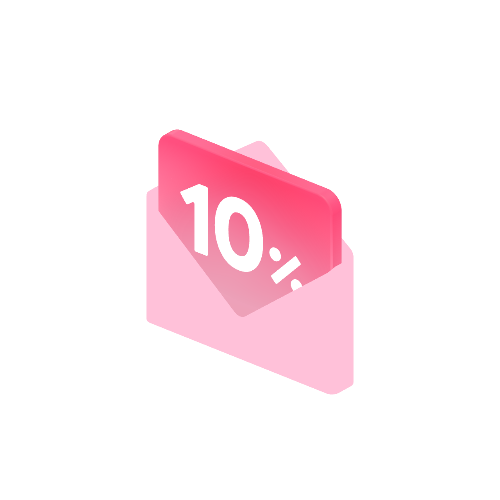
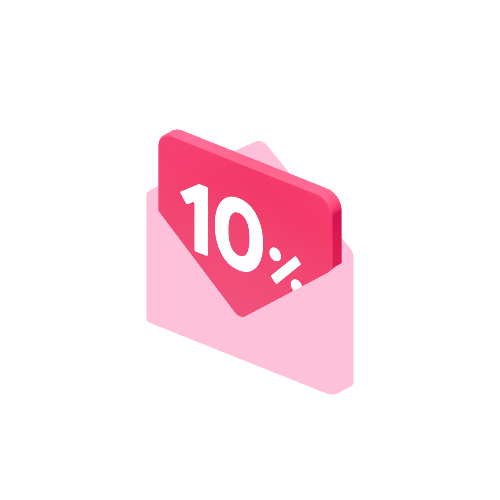
Align today's assets to the Moving Box frosted standard
Moving Box (`box`) is the canonical frosted tone — its frostedBlue
averages ~#4096F3, decided via contrast/color tests. Won Coin and the
new 10% Coupon + Envelope rendered far paler because their thin/flat
geometry (disc, paper sheet) exposes the pale gradient band and bleeds
the bright background through the transmission, lifting the body toward
pale cyan.

Per the tone-priority call, match box's color and accept slightly less
translucency on these thin assets (woncoin, woncoinarrow, couponEnvelope):

- gradientYShift -3 — extends the gradient bbox below the body so the
  visible V range compresses into the saturated end. Not a material
  value (box itself uses -0.12); each asset tunes this to its silhouette.
- envMapIntensity 0 — kill the env reflection that lifts the flat face
  toward white/cyan.
- transmission 0.5 (vs the 0.85 FROSTED_PRESET) — cut the white-
  background bleed-through so the body reads saturated.

No hardcoded gradient, so every color variant stays correct. Measured
frostedBlue avg moved woncoin #56B4F6 → #329EE7 (vs box #4096F3); the
coupon paper now reads dense while its envelope keeps the intended light
harmony accent. Thumbnails re-baked (woncoin/woncoinarrow are new — the
won coin assets previously had no pre-baked PNG).

Changed region(s): [[0.3, 0.3, 0.69, 0.63]]

diff --git a/3Dassetlibrary.html b/3Dassetlibrary.html
@@ -2029,20 +2029,29 @@ const ASSETS = {
     // leaves it looking small next to cube assets. Tighten so the disc
     // fills the cell like Moving Box.
     frameScale: 1.7,
-    // Shift the gradient bbox downward so the coin face sits inside
-    // the saturated half of the gradient instead of the pale top —
-    // flat assets only expose a thin slice of the V range, so without
-    // the shift the coin reads washed-out (same trap as lightning).
-    gradientYShift: -0.85,
-    // Pull envMap + clearcoat down so the gradient color (not surface
-    // reflections) dominates — the coin's flat top face would otherwise
-    // catch the overhead key/front directionals head-on and lift the
-    // body toward white, washing out whichever frosted variant is
-    // active. NB: no gradient override here — that would lock the
-    // texture to a single palette and break variant switching.
+    // ── Match the Moving Box (box) frosted standard ──────────────
+    // `box` is the canonical frosted tone (decided via contrast/color
+    // tests): frostedBlue averages ~#4096F3. A thin disc can't hit that
+    // tone under the *identical* FROSTED_PRESET — its flat face spans
+    // the whole gradient (so the pale top band shows) and its thinness
+    // lets the bright background bleed through the transmission, both
+    // lifting the body toward pale cyan. Per the tone-priority call we
+    // match box's color and accept slightly less translucency:
+    //  · gradientYShift -3 — extends the gradient bbox below the body so
+    //    the coin's V range compresses into the saturated end. (Not a
+    //    material value — box itself uses -0.12; every asset tunes this
+    //    to its silhouette.)
+    //  · envMapIntensity 0 — kill the env reflection that lifts the flat
+    //    face toward white/cyan.
+    //  · transmission 0.5 (vs the 0.85 FROSTED_PRESET) — cut the white-
+    //    background bleed-through so the disc reads saturated.
+    // No hardcoded gradient (that would lock the palette + break variant
+    // switching). Result: frostedBlue avg ~#329EE7, close to box #4096F3.
+    gradientYShift: -3,
     materialOverrides: {
-      envMapIntensity: 0.15,
+      envMapIntensity: 0.0,
       clearcoat: 0.2,
+      transmission: 0.5,
     },
     materialFor(name, parentName) {
       const pn = (parentName || '').toLowerCase().replace(/_\d+$/, '');
@@ -2067,10 +2076,13 @@ const ASSETS = {
     frameScale: 1.17,
     // Mirror woncoin so the coin half reads with identical density —
     // only the arrow accent visually differs between the two assets.
-    gradientYShift: -0.85,
+    // (See woncoin for why the shift + transmission/envMap drop are
+    // needed to match the Moving Box frosted standard.)
+    gradientYShift: -3,
     materialOverrides: {
-      envMapIntensity: 0.15,
+      envMapIntensity: 0.0,
       clearcoat: 0.2,
+      transmission: 0.5,
     },
     // Arrow swirls around the coin without touching the ground, so it
     // shouldn't cast a shadow on the plane (and shouldn't grow the AO
@@ -2108,7 +2120,20 @@ const ASSETS = {
     // Match the standalone `coupon` (1.6) so the asset reads at the same
     // scale instead of the smaller default-2.2 framing.
     frameScale: 1.6,
+    // The paper body is a thin flat sheet, so like the won coin disc it
+    // reads washed-out vs the Moving Box frosted standard under the
+    // identical preset (pale gradient band shows + bright background
+    // bleeds through). Same tone-match fix as woncoin: shift the V range
+    // into the saturated end, kill env reflection, drop transmission to
+    // cut the bleed. (The envelope/10% accents are unaffected — only the
+    // paper body takes these body-material overrides.)
+    gradientYShift: -3,
     weldVertices: true,
+    materialOverrides: {
+      envMapIntensity: 0.0,
+      clearcoat: 0.2,
+      transmission: 0.5,
+    },
     materialFor(name, parentName) {
       const n  = (name || '').toLowerCase();
       const pn = (parentName || '').toLowerCase();
